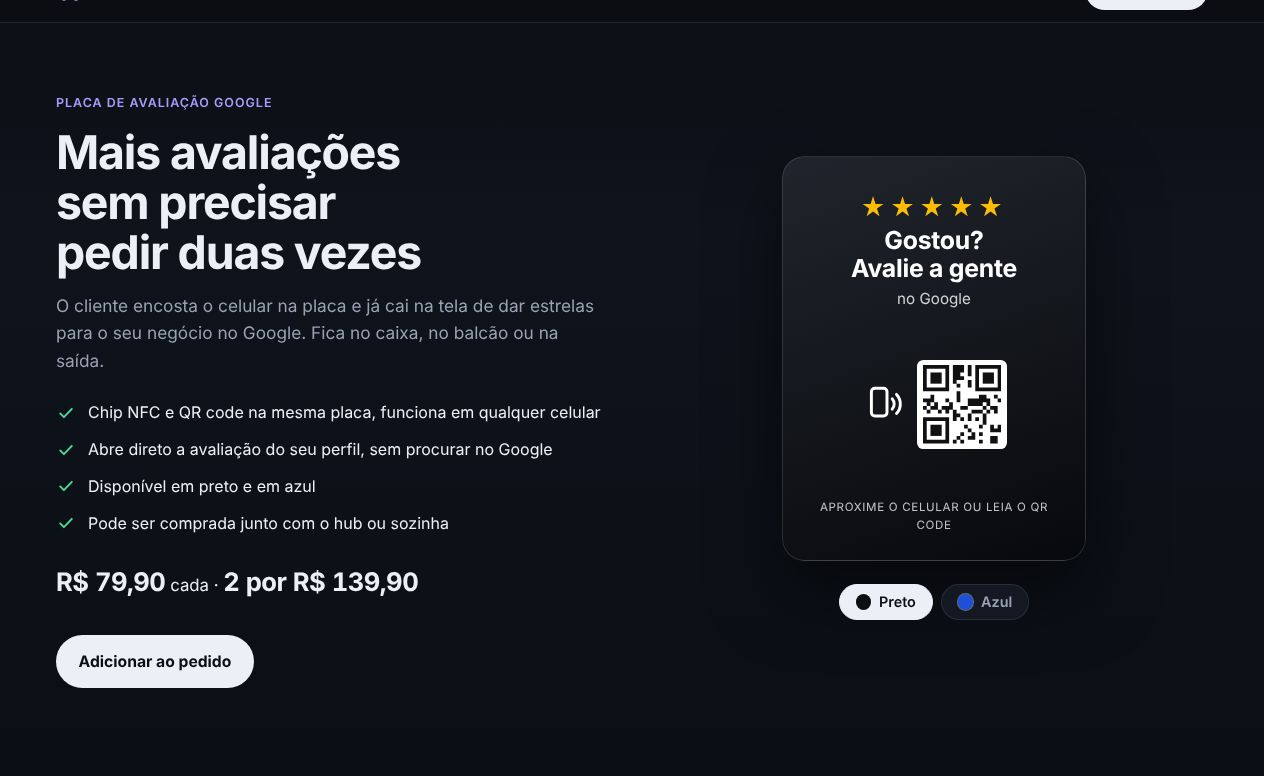
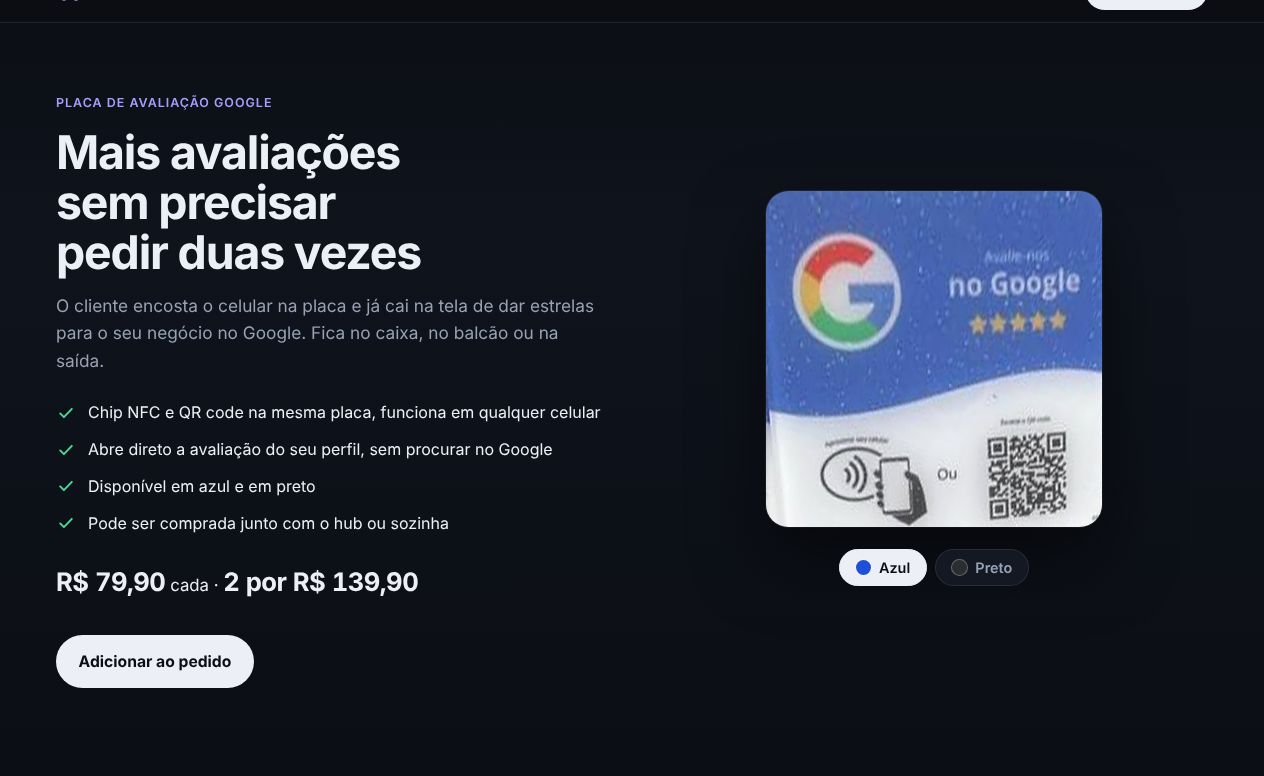
Placa Google: fotos reais nas cores azul e preta
Claude-Session: https://claude.ai/code/session_01SbL5BZc9wFFV6NVM2izEHm

Changed region(s): [[0.5862, 0.2474, 0.8948, 0.8041], [0.1543, 0.6186, 0.2468, 0.6495]]

diff --git a/index.html b/index.html
@@ -217,7 +217,8 @@ p{margin:0}
 .cor{display:inline-flex;align-items:center;gap:.5rem;padding:.55rem 1rem;border-radius:999px;border:1px solid var(--linha);background:var(--painel);color:var(--mudo);font:600 .9rem var(--sans);cursor:pointer}
 .cor i{width:.95rem;height:.95rem;border-radius:50%;background:var(--c);box-shadow:0 0 0 1px rgba(255,255,255,.35)}
 .cor[aria-pressed="true"]{color:var(--tinta);background:var(--texto);border-color:var(--texto)}
-.foto-placa{width:min(19rem,100%);aspect-ratio:3/4;border-radius:1.4rem;overflow:hidden;box-shadow:0 30px 70px rgba(0,0,0,.55)}
+.foto-placa{width:min(21rem,100%);aspect-ratio:1;border-radius:1.4rem;overflow:hidden;background:#1a1d24;box-shadow:0 30px 70px rgba(0,0,0,.55),0 0 0 1px rgba(255,255,255,.08)}
+.foto-placa img{transition:opacity .25s}
 .foto-placa img{width:100%;height:100%;object-fit:cover;display:block}
 .pg{height:100%;display:flex;flex-direction:column;align-items:center;justify-content:space-between;gap:.8rem;padding:2rem 1.6rem 1.6rem;text-align:center;color:#fff;background:var(--fundo);border:1px solid rgba(255,255,255,.14);border-radius:inherit;transition:background .35s}
 .pg .est{color:#FBBC04;font-size:1.5rem;letter-spacing:.18em}
@@ -329,7 +330,7 @@ p{margin:0}
         <ul class="lista">
           <li><svg aria-hidden="true"><use href="#ok"/></svg><span>Chip NFC e QR code na mesma placa, funciona em qualquer celular</span></li>
           <li><svg aria-hidden="true"><use href="#ok"/></svg><span>Abre direto a avaliação do seu perfil, sem procurar no Google</span></li>
-          <li><svg aria-hidden="true"><use href="#ok"/></svg><span>Disponível em preto e em azul</span></li>
+          <li><svg aria-hidden="true"><use href="#ok"/></svg><span>Disponível em azul e em preto</span></li>
           <li><svg aria-hidden="true"><use href="#ok"/></svg><span>Pode ser comprada junto com o hub ou sozinha</span></li>
         </ul>
         <p class="preco-p"><b>R$ 79,90</b> cada · <b>2 por R$ 139,90</b></p>
@@ -457,8 +458,8 @@ const COMPARATIVO = [
 ];
 /* Fotos da placa de avaliação. Vazio = mostra a ilustração. Ex.: preto: "img/placa-preta.jpg" */
 const PLACA_CORES = [
-  { id: "preto", nome: "Preto", cor: "#0d0f13", fundo: "linear-gradient(160deg,#20242c,#08090c)", foto: "" },
-  { id: "azul", nome: "Azul", cor: "#1d4fd8", fundo: "linear-gradient(160deg,#2f6bf0,#163a9e)", foto: "" },
+  { id: "azul", nome: "Azul", cor: "#1d4fd8", fundo: "linear-gradient(160deg,#2f6bf0,#163a9e)", foto: "img/placa-azul.jpg" },
+  { id: "preto", nome: "Preto", cor: "#2b2d31", fundo: "linear-gradient(160deg,#20242c,#08090c)", foto: "img/placa-preta.jpg" },
 ];
 const DEMOS = [
   { id: "jhows", nome: "Barbearias", cor: "#e0312e", arquivo: "demos/jhows.html", titulo: "Jhow's Barbearia", real: true,
@@ -530,6 +531,7 @@ const DEMOS = [
   }
   $("#cores").innerHTML = PLACA_CORES.map(c => `<button type="button" class="cor" data-cor="${c.id}" style="--c:${c.cor}"><i></i>${esc(c.nome)}</button>`).join("");
   $("#cores").addEventListener("click", e => { const b = e.target.closest(".cor"); if (b) placa(b.dataset.cor); });
+  PLACA_CORES.forEach(c => { if (c.foto) new Image().src = c.foto; });
   placa(PLACA_CORES[0].id);
 
   /* Demos */
